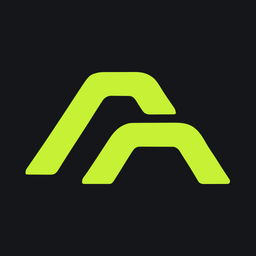
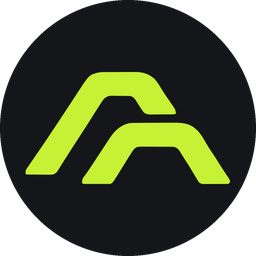
fix(voz/ícone): a fala não some calada; o microfone do menu alterna a Ajuda aberta; ícone redondo; protótipo D1
Claude-Session: https://claude.ai/code/session_01XzkAQa3bpg23PpAN3wrWpy

diff --git a/prototipo/caminho-novo/D1Ajuda.dc.html b/prototipo/caminho-novo/D1Ajuda.dc.html
@@ -1,0 +1,71 @@
+<!doctype html>
+<html lang="pt-BR">
+<head>
+<meta charset="utf-8">
+<title>Atlas · Ajuda do Atlas em destaque</title>
+<script src="./support.js"></script>
+</head>
+<body>
+<x-dc>
+<helmet>
+<link href="https://fonts.googleapis.com/css2?family=Geist:wght@400;500;600;700&amp;family=Geist+Mono:wght@400;500;600&amp;display=swap" rel="stylesheet">
+<style>body{margin:0} @keyframes pulso{0%{box-shadow:0 0 0 0 rgba(240,90,79,.55)}70%{box-shadow:0 0 0 14px rgba(240,90,79,0)}100%{box-shadow:0 0 0 0 rgba(240,90,79,0)}} @keyframes onda{0%,100%{transform:scaleY(.3)}50%{transform:scaleY(1)}} @keyframes gira{to{transform:rotate(360deg)}} .onda span{display:block;width:4px;border-radius:2px;background:#F05A4F;animation:onda 1s infinite ease-in-out}</style>
+</helmet>
+<div style="width:1440px;height:900px;background:{{t.bg}};color:{{t.text}};font-family:'Geist',system-ui,sans-serif;display:flex;overflow:hidden;position:relative">
+ <div style="display:flex;flex:1;filter:blur(5px) saturate(.7);opacity:.45;pointer-events:none">
+  <dc-import name="Shell" ativo="obras" tema="{{tema}}" hint-size="248px,900px"></dc-import>
+  <main style="flex:1;padding:32px 40px;display:flex;flex-direction:column;gap:20px">
+   <span style="font:500 12px 'Geist Mono',monospace;letter-spacing:.12em;color:{{t.mute2}}">NOVA OBRA</span>
+   <h1 style="margin:0;font-size:40px">Tudo pronto, Zé. Agora vamos construir.</h1>
+   <div style="display:grid;grid-template-columns:1fr 1fr;gap:20px"><div style="height:400px;border-radius:20px;border:1px solid {{t.lime}};background:{{t.card}}"></div><div style="height:400px;border-radius:20px;background:{{t.card}}"></div></div>
+   <div style="height:280px;border-radius:20px;background:{{t.card}}"></div>
+  </main>
+ </div>
+ <div style="position:absolute;inset:0 520px 0 0;background:rgba(10,11,12,.35)" title="Clicar aqui fecha a Ajuda"></div>
+ <aside aria-label="Ajuda do Atlas" style="position:absolute;top:0;right:0;bottom:0;width:520px;background:{{t.card}};border-left:1px solid {{t.lime}};box-shadow:-30px 0 80px rgba(0,0,0,.55);display:flex;flex-direction:column">
+  <header style="display:flex;align-items:center;gap:14px;padding:22px 24px;border-bottom:1px solid {{t.cardB}}">
+   <span style="width:44px;height:44px;border-radius:12px;background:{{t.card2}};display:flex;align-items:center;justify-content:center;color:{{t.lime}}"><svg width="22" height="22" viewBox="0 0 24 24" fill="none" stroke="currentColor" stroke-width="2"><path d="M21 12a8 8 0 0 1-11.6 7.1L4 20l1-4.6A8 8 0 1 1 21 12Z"/></svg></span>
+   <div style="display:flex;flex-direction:column;gap:2px"><b style="font-size:19px">Ajuda do Atlas</b><span style="font-size:14px;color:{{t.limeTxt}}">● responde na hora, a qualquer hora</span></div>
+   <span style="margin-left:auto;font-size:22px;color:{{t.mute}}">✕</span>
+  </header>
+  <div style="flex:1;padding:22px 24px;display:flex;flex-direction:column;gap:12px">
+   <div style="align-self:flex-start;max-width:86%;background:{{t.card2}};border-radius:16px;padding:14px 16px;font-size:16px;line-height:1.5">Oi, Zé. Estou aqui, a qualquer hora. Me conta o que está acontecendo? Pode falar, escrever ou mandar um print.</div>
+  </div>
+  <footer style="padding:16px 24px 22px;border-top:1px solid {{t.cardB}};display:flex;flex-direction:column;gap:12px">
+   <sc-if value="{{ouvindo}}" hint-placeholder-val="{{ true }}">
+    <div role="status" style="display:flex;flex-direction:column;gap:8px;padding:14px 16px;border-radius:14px;border:1px solid #F05A4F;background:rgba(240,90,79,.08)">
+     <div style="display:flex;align-items:center;gap:10px"><span class="onda" style="display:flex;align-items:center;gap:3px;height:18px"><span style="height:18px"></span><span style="height:18px;animation-delay:.15s"></span><span style="height:18px;animation-delay:.3s"></span><span style="height:18px;animation-delay:.45s"></span></span><b style="font-size:15px">Ouvindo…</b><span style="font-size:14px;color:{{t.mute}}">Fale à vontade. Quando terminar, aperte o microfone.</span></div>
+     <span style="font-size:15px;line-height:1.45;color:{{t.text}};opacity:.8">"o meu site não está abrindo no celular, aparece uma tela branca…"</span>
+    </div>
+   </sc-if>
+   <sc-if value="{{escrevendo}}" hint-placeholder-val="{{ false }}">
+    <div role="status" style="display:flex;align-items:center;gap:10px;padding:14px 16px;border-radius:14px;border:1px solid {{t.lime}};background:{{t.soft}}"><span style="width:16px;height:16px;border-radius:8px;border:2px solid {{t.lime}};border-top-color:transparent;animation:gira 1s linear infinite"></span><b style="font-size:15px">Escrevendo o que você falou…</b><span style="font-size:14px;color:{{t.mute}}">Leva só uns segundos.</span></div>
+   </sc-if>
+   <div style="display:flex;gap:8px"><span style="height:36px;padding:0 12px;border-radius:999px;border:1px solid {{t.cardB}};display:flex;align-items:center;font:600 14px 'Geist',sans-serif">Tirar print da tela</span><span style="height:36px;padding:0 12px;border-radius:999px;border:1px solid {{t.cardB}};display:flex;align-items:center;font:600 14px 'Geist',sans-serif">Anexar imagem</span></div>
+   <div style="display:flex;align-items:center;gap:10px">
+    <button onClick="{{alternar}}" aria-label="Microfone" style="width:52px;height:52px;border-radius:26px;border:none;background:{{micBg}};color:{{micCor}};display:flex;align-items:center;justify-content:center;cursor:pointer;animation:{{micAnim}}"><svg width="22" height="22" viewBox="0 0 24 24" fill="none" stroke="currentColor" stroke-width="2.2" stroke-linecap="round"><rect x="9" y="3" width="6" height="11" rx="3"/><path d="M5 11a7 7 0 0 0 14 0M12 18v3"/></svg></button>
+    <div style="flex:1;height:52px;border-radius:12px;border:1px solid {{t.cardB}};background:{{t.input}};display:flex;align-items:center;padding:0 14px;color:{{t.mute2}};font-size:15px">{{campo}}</div>
+    <span style="width:52px;height:52px;border-radius:12px;background:{{t.lime}};color:{{t.onLime}};display:flex;align-items:center;justify-content:center;font-weight:700">→</span>
+   </div>
+   <span style="font-size:12px;color:{{t.mute2}}">Clique no microfone para alternar: ouvindo → escrevendo → texto no campo.</span>
+  </footer>
+ </aside>
+</div>
+</x-dc>
+<script type="text/x-dc" data-dc-script data-props='{"tema":{"editor":"enum","options":["escuro","claro"],"default":"escuro"},"$preview":{"width":1440,"height":900}}'>
+const T = {
+  escuro: { bg: '#141619', card: '#1E2125', card2: '#191B1E', cardB: '#2C3036', text: '#EDEFEA', mute: '#B4BBB2', mute2: '#8E968C', lime: '#C6F135', limeTxt: '#C6F135', onLime: '#141619', soft: 'rgba(198,241,53,.10)', input: '#16181B', line: '#2A2E33', ambar: '#F2B84B', ambarSoft: 'rgba(242,184,75,.14)', terra: '#2A2620', terraLinha: '#4A4134', cena: '#1A1D21', selo: 'rgba(16,18,20,.82)', seloTxt: '#EDEFEA' },
+  claro: { bg: '#F2F3EE', card: '#FFFFFF', card2: '#F7F8F4', cardB: '#DADDD3', text: '#1B1E22', mute: '#5F665C', mute2: '#6B7268', lime: '#B6E22E', limeTxt: '#4E6B00', onLime: '#1B1E22', soft: 'rgba(182,226,46,.18)', input: '#FFFFFF', line: '#E6E8E1', ambar: '#A86A00', ambarSoft: 'rgba(214,150,30,.14)', terra: '#E9E2D4', terraLinha: '#CDBFA5', cena: '#EEF0EA', selo: 'rgba(255,255,255,.92)', seloTxt: '#1B1E22' }
+};
+class Component extends DCLogic {
+  constructor(p) { super(p); this.state = { fase: 0 }; }
+  renderVals() {
+    const tema = this.props.tema ?? 'escuro'; const t = T[tema] || T.escuro;
+    const f = this.state.fase;
+    return { t, tema, ouvindo: f === 0, escrevendo: f === 1, campo: f === 2 ? 'o meu site não está abrindo no celular, aparece uma tela branca' : 'Fale ou escreva o que aconteceu…',
+      micBg: f === 0 ? '#F05A4F' : t.card2, micCor: f === 0 ? '#fff' : t.text, micAnim: f === 0 ? 'pulso 1.4s infinite' : 'none', alternar: () => this.setState({ fase: (f + 1) % 3 }) };
+  }
+}
+</script>
+</body>
+</html>

diff --git a/src/ui/voz.ts b/src/ui/voz.ts
@@ -1,6 +1,6 @@
 import { useCallback, useEffect, useRef, useState } from 'react'
 import { criarTranscricaoEmPartes } from './voz-partes'
-import { definirEstadoVoz, estadoVoz, gravacaoSuportada, iniciarGravacao, noAtlasInstalado, RECADO_NAO_ESCREVI, RECADO_SEM_MICROFONE, transcritorAtual, transcritorRapido, type Gravacao } from './voz-motor'
+import { definirEstadoVoz, estadoVoz, gravacaoSuportada, iniciarGravacao, noAtlasInstalado, RECADO_NAO_ENTENDI, RECADO_NAO_ESCREVI, RECADO_SEM_MICROFONE, RECADO_SEM_SOM, soSilencio, transcritorAtual, transcritorRapido, type Gravacao } from './voz-motor'
 
 // Reconhecimento de fala do navegador (pt-BR). Não há tipos no lib.dom, então declaramos o mínimo.
 interface Reconhecedor {
@@ -95,6 +95,7 @@ function useVozWhisper(aoFalar: (texto: string) => void) {
   const gravacao = useRef<Gravacao | null>(null)
   const emPartes = useRef<{ partes: ReturnType<typeof criarTranscricaoEmPartes>; timer: ReturnType<typeof setInterval>; rascunho?: ReturnType<typeof setInterval> } | null>(null)
   const ligando = useRef(false)
+  const entregou = useRef(false) // algum trecho já foi escrito durante esta gravação
   const cb = useRef(aoFalar)
   useEffect(() => { cb.current = aoFalar })
   useEffect(() => () => { if (emPartes.current) { clearInterval(emPartes.current.timer); clearInterval(emPartes.current.rascunho) } gravacao.current?.cancelar(); gravacao.current = null; if (estadoVoz().fase === 'ouvindo') definirEstadoVoz({ fase: 'livre' }) }, [])
@@ -113,13 +114,16 @@ function useVozWhisper(aoFalar: (texto: string) => void) {
       void (async () => {
         try {
           const audio = await g.parar()
+          // Só silêncio e nada escrito durante a fala: o microfone não mandou som. Diz isso (antes o aviso sumia calado).
+          if (!entregou.current && soSilencio(audio)) { definirEstadoVoz({ fase: 'erro', recado: RECADO_SEM_SOM }); return }
           const t = transcritorAtual()
           await t.preparar((pct) => { if (pct < 100) definirEstadoVoz({ fase: 'preparando', progresso: pct }) })
           definirEstadoVoz({ fase: 'escrevendo' })
           // Os trechos já falados foram sendo escritos durante a gravação; aqui falta só o finalzinho.
           const texto = (ep ? await ep.partes.terminar(audio) : await t.transcrever(audio)).trim()
-          definirEstadoVoz({ fase: 'livre' })
-          if (texto) cb.current(texto)
+          if (texto) { definirEstadoVoz({ fase: 'livre' }); cb.current(texto) }
+          else if (entregou.current) definirEstadoVoz({ fase: 'livre' })
+          else definirEstadoVoz({ fase: 'erro', recado: RECADO_NAO_ENTENDI })
         } catch {
           definirEstadoVoz({ fase: 'erro', recado: RECADO_NAO_ESCREVI })
         }
@@ -132,6 +136,7 @@ function useVozWhisper(aoFalar: (texto: string) => void) {
       try {
         const g = await iniciarGravacao()
         gravacao.current = g
+        entregou.current = false
         setGravando(true)
         definirEstadoVoz({ fase: 'ouvindo' })
         // Enquanto a pessoa fala, o modelo (só na primeira vez) já vai sendo preparado.
@@ -139,7 +144,7 @@ function useVozWhisper(aoFalar: (texto: string) => void) {
         // Texto ao vivo (23/11/2026): a cada 1,5 s olha se já tem um trecho de uns 4 s terminado num respiro; ele vai para o campo
         // assim que o Whisper bom escreve, sempre na ordem da fala. Ao parar, falta só o finalzinho.
         if (g.parcial) {
-          const partes = criarTranscricaoEmPartes(transcritorAtual(), { minSegundos: 3, aoPronto: (x) => cb.current(x) })
+          const partes = criarTranscricaoEmPartes(transcritorAtual(), { minSegundos: 3, aoPronto: (x) => { entregou.current = true; cb.current(x) } })
           const timer = setInterval(() => { void g.parcial!().then((a) => partes.adiantar(a)).catch(() => {}) }, 1000)
           emPartes.current = { partes, timer }
           // Rascunho ao vivo ("sem delay na fala"): a cada ~1 s o Whisper rápido escreve o trecho ainda não confirmado, e ele

diff --git a/src/app/AppDesktop.tsx b/src/app/AppDesktop.tsx
@@ -109,7 +109,7 @@ export function AppDesktop({ ponte = ponteInicial(), api, claude, contas, celula
   const [ativo, setAtivo] = useState<IdTela>('obras')
   const [instalando, setInstalando] = useState(false)
   // A Ajuda do Atlas (F17) é um painel lateral por cima de qualquer tela; `n` renova a conversa a cada abertura.
-  const [painelAjuda, setPainelAjuda] = useState<{ contexto: ContextoAjuda; n: number } | null>(null)
+  const [painelAjuda, setPainelAjuda] = useState<{ contexto: ContextoAjuda; n: number; toque?: number } | null>(null)
   const [computador, setComputador] = useState('')
   const [dono, setDono] = useState('')
   const [paradaF12, setParadaF12] = useState<ObraParada | null>(null)
@@ -136,7 +136,11 @@ export function AppDesktop({ ponte = ponteInicial(), api, claude, contas, celula
   const ponteAjuda = useMemo<PonteAjuda>(() => ajuda ?? (modoFixture() ? criarAjudaFixture() : (ponte.ajuda ?? ajudaIndisponivel)), [ajuda, ponte])
   // Casos que o Atlas não resolveu vão ao painel do administrador (ocorrencias_admin, M7); sem adaptador real, não finge que anotou.
   const ponteCasos = useMemo<PonteCasosAdmin>(() => casos ?? (modoFixture() ? criarCasosFixture() : (ponte.casos ?? casosIndisponivel)), [casos, ponte])
-  const abrirAjuda = (contexto: ContextoAjuda) => setPainelAjuda((a) => ({ contexto: { obra: obraAtual?.nome, pasta: obraAtual?.pasta, ...contexto }, n: (a?.n ?? 0) + 1 }))
+  // "Falar com o Atlas" do menu com a Ajuda já aberta: liga/desliga o microfone dela, sem recriar o painel (recriar cancelava a
+  // gravação e recomeçava: a fala nunca era escrita; Luiz, 24/11/2026).
+  const abrirAjuda = (contexto: ContextoAjuda) => setPainelAjuda((a) => (a && contexto.origem === 'menu' && contexto.ouvir
+    ? { ...a, toque: (a.toque ?? 0) + 1 }
+    : { contexto: { obra: obraAtual?.nome, pasta: obraAtual?.pasta, ...contexto }, n: (a?.n ?? 0) + 1 }))
   const pedirAjudaPasso = (p: PedidoAjudaPasso) => abrirAjuda(contextoDoPasso(p))
 
   const pontePlanilha = useMemo<PontePlanilha | null>(() => (modoFixture() ? criarPlanilhaFixture() : (ponte.planilha ?? null)), [ponte])
@@ -321,7 +325,7 @@ export function AppDesktop({ ponte = ponteInicial(), api, claude, contas, celula
     if (o.etapa === 'obra') { setFluxo('lista'); setAtivo('obra'); return }
     setFluxo(o.etapa)
   }
-  const painelDeAjuda = painelAjuda ? <Ajuda key={painelAjuda.n} ajuda={ponteAjuda} casos={ponteCasos} contexto={painelAjuda.contexto} nome={dono.split(' ')[0] || undefined} onFechar={() => setPainelAjuda(null)} /> : null
+  const painelDeAjuda = painelAjuda ? <Ajuda key={painelAjuda.n} toqueVoz={painelAjuda.toque ?? 0} ajuda={ponteAjuda} casos={ponteCasos} contexto={painelAjuda.contexto} nome={dono.split(' ')[0] || undefined} onFechar={() => setPainelAjuda(null)} /> : null
   // Pagou: o cartão já virou "Licença ativa" e a tela de compra some sozinha.
   const compra = emailCompra && !licencaNoApp.pagou ? <ComprarAtlas aberto email={emailCompra} onFechar={() => setEmailCompra(null)} iniciar={iniciarCompraPeloApp} abrirPagamento={abrirPagamento} onPagamentoAberto={licencaNoApp.esperarPagamento} /> : null
   const com = (n: ReactNode) => <ContextoConectarClaude.Provider value={conectarClaude}><ContextoPlano.Provider value={planoNoMenu}><ContextoModelo.Provider value={modeloNoMenu}><ContextoLicenca.Provider value={contextoLicenca}>{n}{painelDeAjuda}{compra}<StatusVoz /></ContextoLicenca.Provider></ContextoModelo.Provider></ContextoPlano.Provider></ContextoConectarClaude.Provider>

diff --git a/src/ui/voz-whisper.test.tsx b/src/ui/voz-whisper.test.tsx
@@ -1,9 +1,9 @@
 import { act, renderHook, waitFor } from '@testing-library/react'
 import { useVoz } from './voz'
-import { estadoVoz, RECADO_NAO_ESCREVI, RECADO_SEM_MICROFONE, usarMotorDeVoz, type Gravacao, type Transcritor } from './voz-motor'
+import { estadoVoz, RECADO_NAO_ENTENDI, RECADO_NAO_ESCREVI, RECADO_SEM_MICROFONE, RECADO_SEM_SOM, usarMotorDeVoz, type Gravacao, type Transcritor } from './voz-motor'
 
 const AUDIO = new Float32Array([0.1, 0.2])
-function falsos({ texto = 'quero uma agenda', falhaMic = false, falhaTexto = false } = {}) {
+function falsos({ texto = 'quero uma agenda', falhaMic = false, falhaTexto = false, audio = AUDIO } = {}) {
   const chamadas: string[] = []
   const t: Transcritor = {
     preparar: async (p) => { chamadas.push('preparar'); p(50); p(100) },
@@ -12,7 +12,7 @@ function falsos({ texto = 'quero uma agenda', falhaMic = false, falhaTexto = fal
   const g = async (): Promise<Gravacao> => {
     if (falhaMic) throw new Error('NotAllowedError')
     chamadas.push('gravar')
-    return { parar: async () => { chamadas.push('parar'); return AUDIO }, cancelar: () => chamadas.push('cancelar') }
+    return { parar: async () => { chamadas.push('parar'); return audio }, cancelar: () => chamadas.push('cancelar') }
   }
   usarMotorDeVoz(t, g, { forcar: true })
   return chamadas
@@ -53,14 +53,14 @@ test('se não conseguir transcrever, avisa e não inventa texto', async () => {
   expect(falado).toEqual([])
 })
 
-test('fala vazia (silêncio) não escreve nada no campo', async () => {
+test('o Whisper não escreveu nada: não põe nada no campo e avisa com calma (antes sumia calado)', async () => {
   falsos({ texto: '   ' })
   const falado: string[] = []
   const { result } = renderHook(() => useVoz((t) => falado.push(t)))
   await act(async () => { result.current.alternar() })
   await waitFor(() => expect(result.current.gravando).toBe(true))
   await act(async () => { result.current.alternar() })
-  await waitFor(() => expect(estadoVoz().fase).toBe('livre'))
+  await waitFor(() => expect(estadoVoz()).toMatchObject({ fase: 'erro', recado: RECADO_NAO_ENTENDI }))
   expect(falado).toEqual([])
 })
 
@@ -119,3 +119,18 @@ test('rascunho ao vivo: o trecho que ainda não foi confirmado aparece em ~1 s, 
     expect(estadoVoz().rascunho).toBeUndefined()
   } finally { vi.useRealTimers() }
 })
+
+
+// Luiz, 24/11/2026: "não está funcionando a função de ouvir e transcrever": o aviso sumia sem escrever nada e sem dizer por quê.
+test('o microfone mandou só silêncio: diz isso (não some calado) e não chama o Whisper', async () => {
+  const chamadas = falsos({ audio: new Float32Array(16000) })
+  const falado: string[] = []
+  const { result } = renderHook(() => useVoz((t) => falado.push(t)))
+  await act(async () => { result.current.alternar() })
+  await waitFor(() => expect(result.current.gravando).toBe(true))
+  await act(async () => { result.current.alternar() })
+  await waitFor(() => expect(estadoVoz()).toMatchObject({ fase: 'erro', recado: RECADO_SEM_SOM }))
+  expect(falado).toEqual([])
+  expect(chamadas.some((c) => c.startsWith('transcrever'))).toBe(false)
+})
+

diff --git a/src/ui/voz-motor.ts b/src/ui/voz-motor.ts
@@ -16,6 +16,11 @@ export function assinarVoz(f: () => void) { ouvintes.add(f); return () => { ouvi
 export function definirEstadoVoz(e: EstadoVoz) { estado = e; ouvintes.forEach((f) => f()) }
 
 export const RECADO_SEM_MICROFONE = 'Não consegui usar o microfone. Confira se ele está ligado e se o Windows deixa o Atlas usar o microfone (Configurações > Privacidade > Microfone).'
+export const RECADO_SEM_SOM = 'O microfone não mandou som. Confira no Windows qual microfone está ligado (Configurações > Sistema > Som > Entrada) e fale um pouco mais perto.'
+export const RECADO_NAO_ENTENDI = 'Não consegui entender o que você falou. Fale um pouco mais perto do microfone e tente de novo, ou digite no campo.'
+/** Pico abaixo disto = silêncio (o microfone não mandou som de verdade). */
+export const PICO_SILENCIO = 0.003
+export const soSilencio = (a: Float32Array) => { for (let i = 0; i < a.length; i++) if (Math.abs(a[i]) >= PICO_SILENCIO) return false; return true }
 export const RECADO_NAO_ESCREVI = 'Não consegui escrever o que você falou. Tente de novo, ou digite no campo.'
 
 /** Quem transcreve: o Whisper no computador (padrão) ou um falso nos testes. */
@@ -66,6 +71,8 @@ export const iniciarGravacao = () => gravador()
 async function gravarDoMicrofone(): Promise<Gravacao> {
   const fluxo = await navigator.mediaDevices.getUserMedia({ audio: { channelCount: 1, echoCancellation: true, noiseSuppression: true } })
   const ctx = new AudioContext()
+  // Sem gesto recente (ex.: a Ajuda abrindo já ouvindo), o Chromium pode criar o áudio "suspenso": nada chega e a fala some.
+  if (ctx.state === 'suspended') await ctx.resume().catch(() => {})
   const fonte = ctx.createMediaStreamSource(fluxo)
   // ScriptProcessor: simples e presente em todo Chromium; 4096 amostras ≈ 85 ms a 48 kHz.
   const proc = ctx.createScriptProcessor(4096, 1, 1)

diff --git a/src/app/Ajuda.test.tsx b/src/app/Ajuda.test.tsx
@@ -108,3 +108,18 @@ test('aberta por um erro, a Ajuda não liga o microfone sozinha', () => {
     expect(inicios).toHaveLength(0)
   } finally { delete w.SpeechRecognition }
 })
+
+// Luiz, 24/11/2026: com a Ajuda aberta ouvindo, apertar de novo o "Falar com o Atlas" do menu recriava o painel e recomeçava a
+// gravação: a fala nunca era escrita. Agora o mesmo botão liga e desliga o microfone da Ajuda que está aberta.
+test('"Falar com o Atlas" com a Ajuda aberta: o mesmo botão para de ouvir e manda escrever (não recomeça)', async () => {
+  const { usarMotorDeVoz, estadoVoz } = await import('../ui/voz-motor')
+  const chamadas: string[] = []
+  usarMotorDeVoz({ preparar: async () => {}, transcrever: async () => 'meu site não abre' }, async () => { chamadas.push('gravar'); return { parar: async () => new Float32Array([0.2, 0.3]), cancelar: () => chamadas.push('cancelar') } }, { forcar: true })
+  const { rerender } = render(<TemaProvider><Ajuda ajuda={criarAjudaFixture()} contexto={{ origem: 'menu', ouvir: true }} onFechar={() => {}} toqueVoz={0} /></TemaProvider>)
+  await screen.findByRole('button', { name: 'Parar de gravar' })
+  rerender(<TemaProvider><Ajuda ajuda={criarAjudaFixture()} contexto={{ origem: 'menu', ouvir: true }} onFechar={() => {}} toqueVoz={1} /></TemaProvider>)
+  expect(await screen.findByDisplayValue('meu site não abre')).toBeInTheDocument()
+  expect(chamadas).toEqual(['gravar'])
+  expect(estadoVoz().fase).toBe('livre')
+  usarMotorDeVoz(null, undefined, { forcar: false })
+})

diff --git a/src/app/Ajuda.tsx b/src/app/Ajuda.tsx
@@ -13,6 +13,8 @@ interface Props {
   /** Primeiro nome do cliente, para o "Oi, Zé". */
   nome?: string
   onFechar: () => void
+  /** Muda a cada toque no "Falar com o Atlas" do menu com a Ajuda já aberta: liga/desliga o microfone daqui (não recria o painel). */
+  toqueVoz?: number
 }
 
 type Mensagem =
@@ -36,7 +38,7 @@ function QuadroPrint({ print }: { print: PrintAjuda }) {
  * F17: a Ajuda do Atlas (prototipo/F17Ajuda), painel lateral de 520 px. Todo o suporte é o próprio Atlas.
  * A conversa vai pela porta `PonteAjuda` (o Claude por baixo); o que o cliente falou, escreveu ou mostrou é DADO.
  */
-export function Ajuda({ ajuda, casos, contexto, nome, onFechar }: Props) {
+export function Ajuda({ toqueVoz = 0, ajuda, casos, contexto, nome, onFechar }: Props) {
   const [prints, setPrints] = useState<PrintAjuda[]>(contexto.print ? [contexto.print] : [])
   const [msgs, setMsgs] = useState<Mensagem[]>([])
   const [texto, setTexto] = useState('')
@@ -57,6 +59,12 @@ export function Ajuda({ ajuda, casos, contexto, nome, onFechar }: Props) {
     ouviu.current = true
     alternar()
   }, [contexto.ouvir, suportado, alternar])
+  const toqueVisto = useRef(toqueVoz)
+  useEffect(() => {
+    if (toqueVoz === toqueVisto.current) return
+    toqueVisto.current = toqueVoz
+    if (suportado) alternar()
+  }, [toqueVoz, suportado, alternar])
 
   useEffect(() => { fim.current?.scrollIntoView?.({ block: 'end' }) }, [msgs, ocupado])
 

diff --git a/instalador/instalador.test.ts b/instalador/instalador.test.ts
@@ -151,3 +151,18 @@ describe('config do electron-builder e scripts', () => {
     expect(s).toMatch(/electron-builder@\d+\.\d+\.\d+/)
   })
 })
+
+// Luiz, 24/11/2026: o ícone do Atlas é uma bola preta (círculo), não um quadrado.
+describe('ícone redondo', () => {
+  it('o ícone tem os 7 tamanhos e o de 256 px tem transparência (RGBA), que deixa os cantos do círculo vazados', async () => {
+    const fs = await import('node:fs')
+    const buf = fs.readFileSync('instalador/recursos/icon.ico')
+    const n = buf.readUInt16LE(4)
+    expect(n).toBeGreaterThanOrEqual(7)
+    // ícone de 256 px guardado como PNG: confere a transparência pelo cabeçalho PNG (cor com alfa) e o tamanho
+    const entradas = Array.from({ length: n }, (_, i) => ({ w: buf[6 + i * 16] || 256, off: buf.readUInt32LE(6 + i * 16 + 12) }))
+    const grande = entradas.find((e) => e.w === 256)!
+    expect(buf.subarray(grande.off + 1, grande.off + 4).toString()).toBe('PNG')
+    expect(buf[grande.off + 25]).toBe(6) // RGBA
+  })
+})
